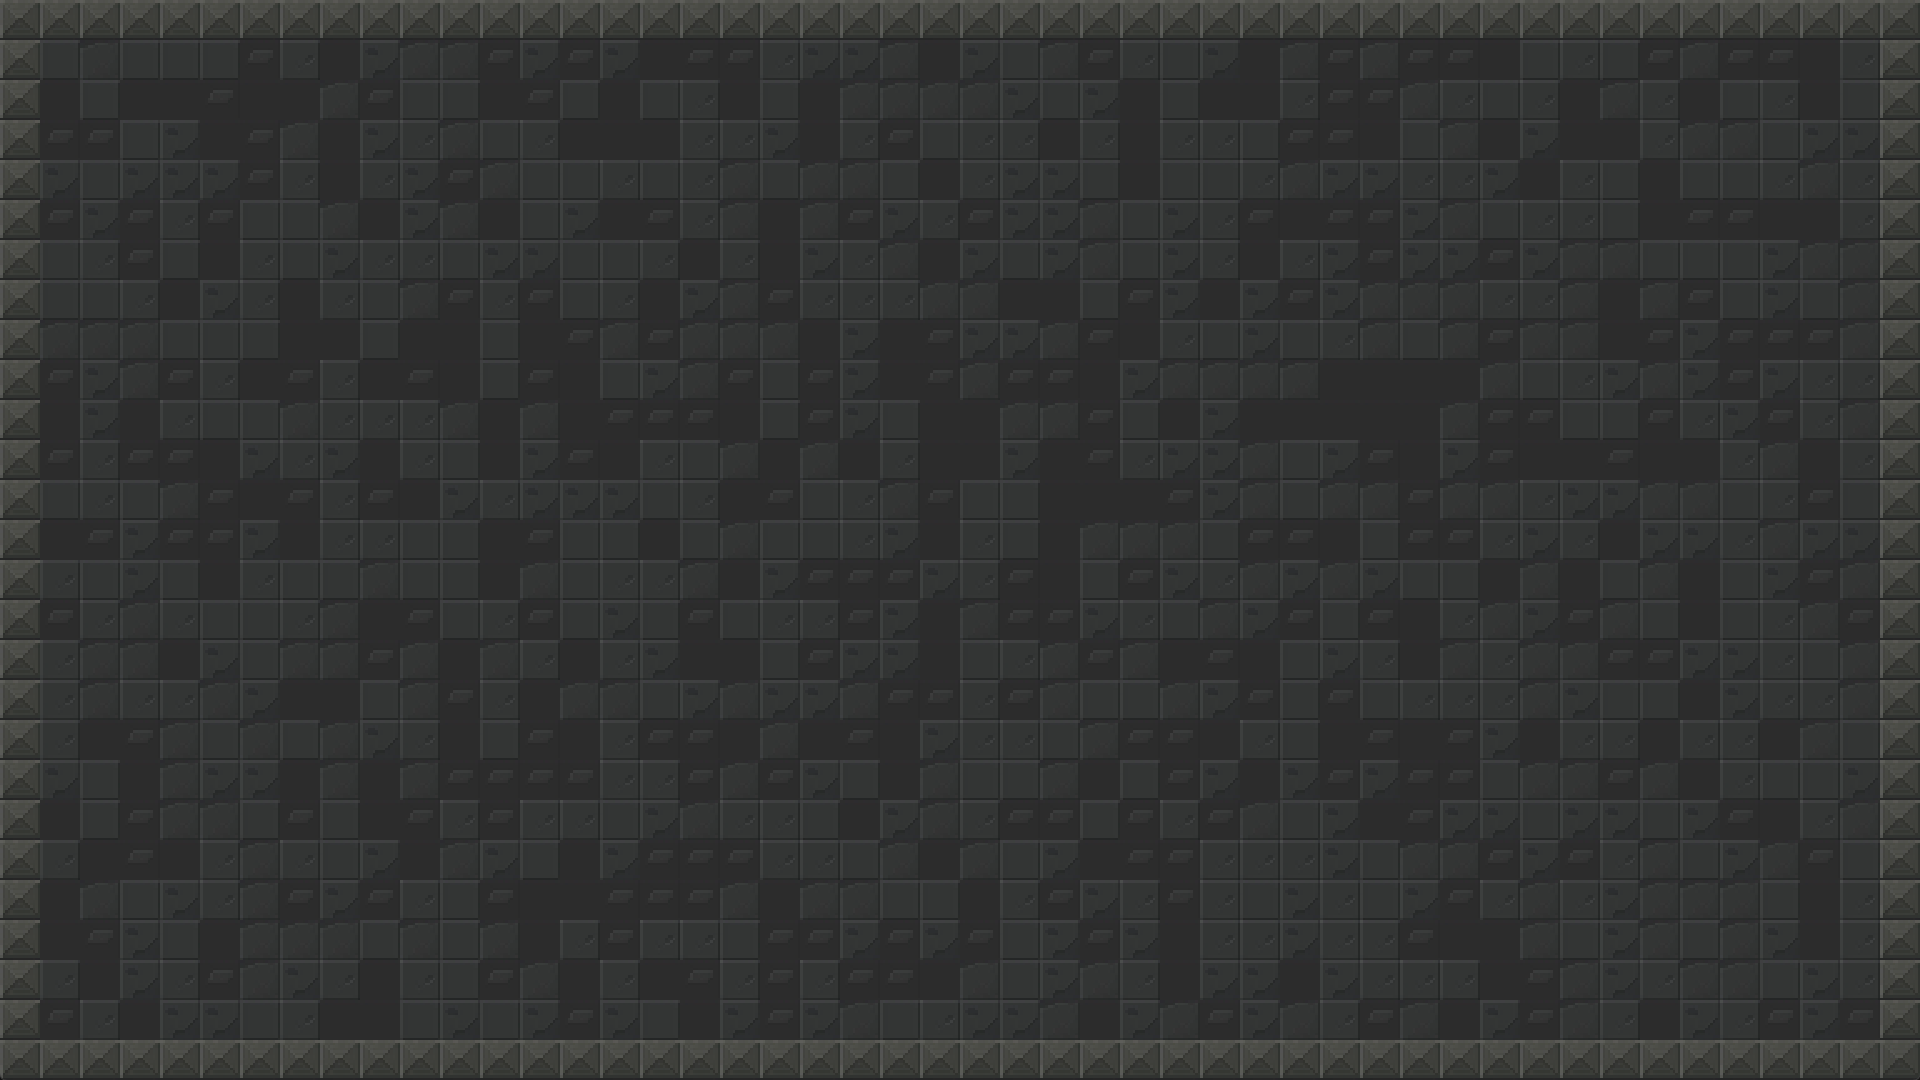
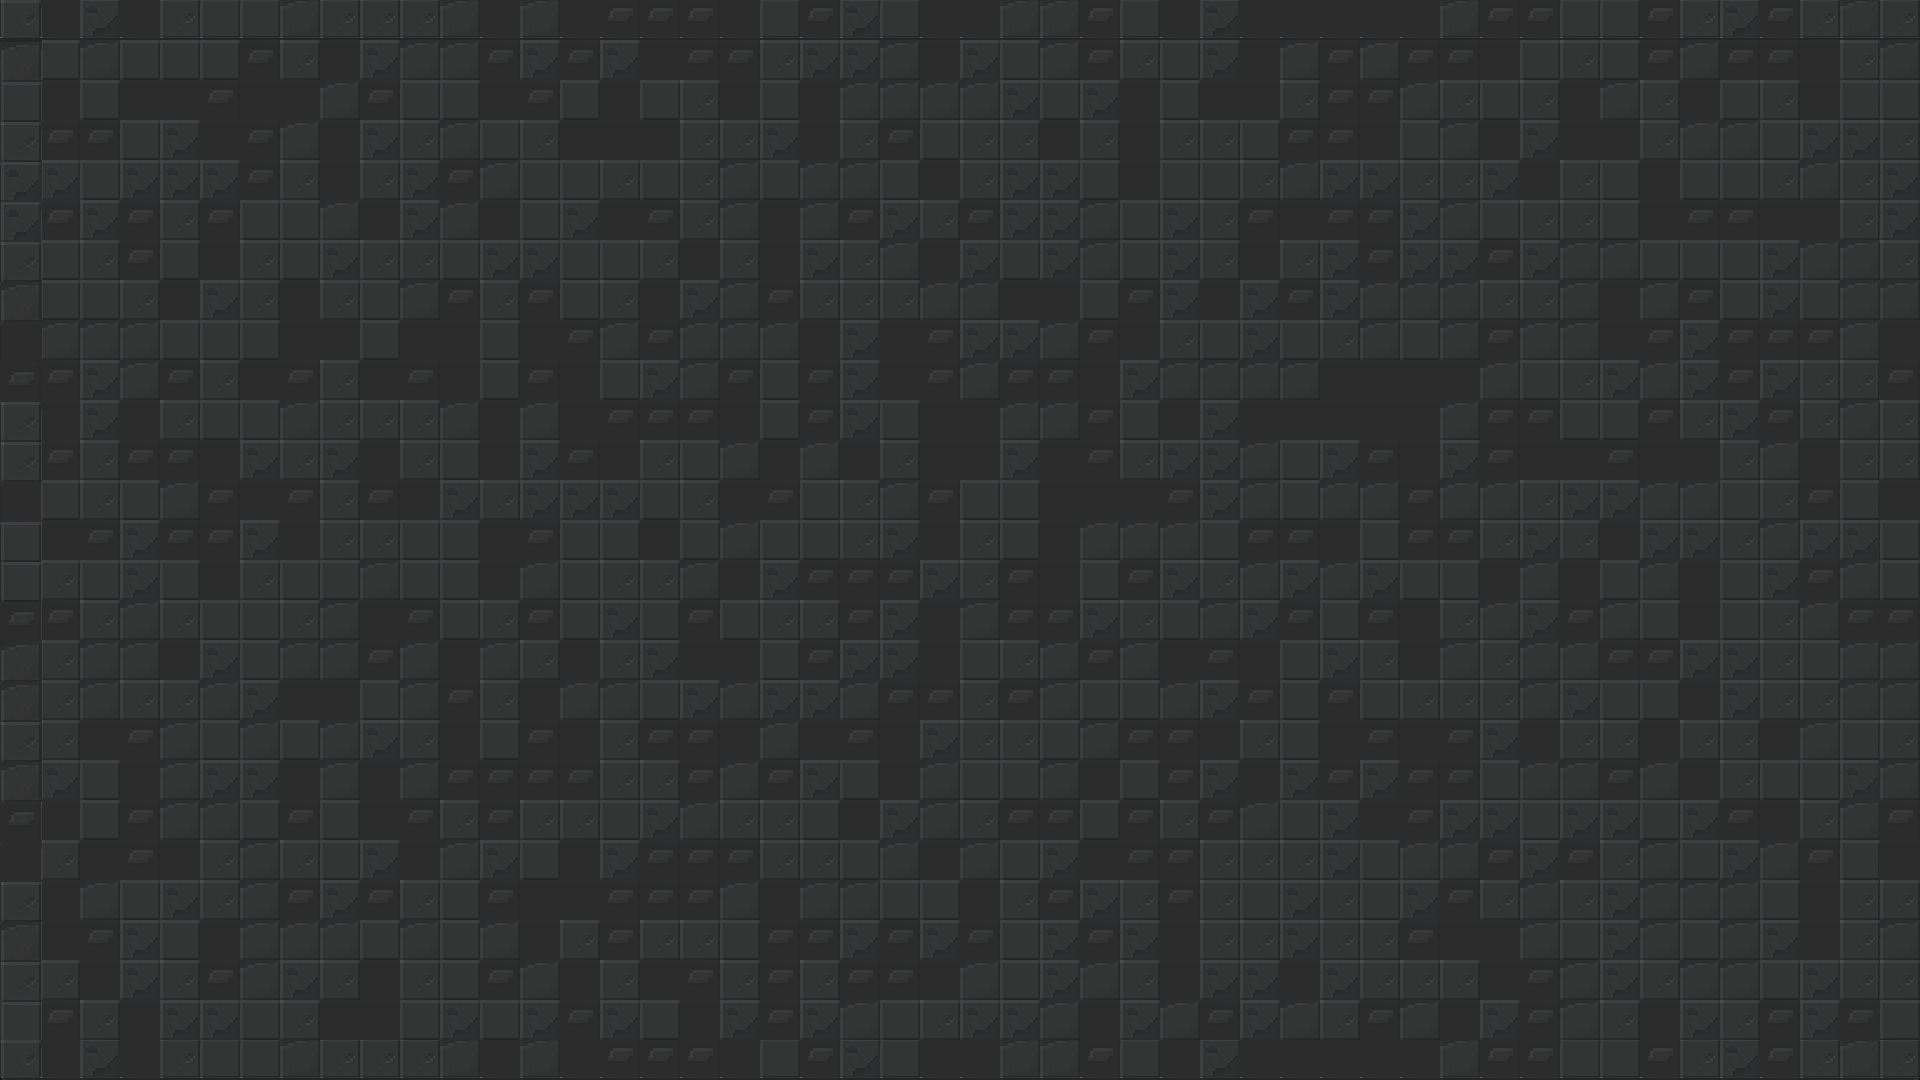
add_npc

diff --git a/GameBeta/Settings.py b/GameBeta/Settings.py
@@ -24,7 +24,13 @@ class SceneSettings:
     bossHeight=1080
 
     cityWallCoodX=480
-    cityWallCoodY=40
+    cityWallCoodY=0
+
+    cityObstacleDoorCoodX=-200
+    cityObstacleDoorCoodY=800
+
+    cityObstacleBoardCoodX=800
+    cityObstacleBoardCoodY=100
     
     wildCameraX=640
     wildCameraY=360
@@ -46,8 +52,10 @@ class PlayerSettings:
     mazeStartY= 23
     wildCoodx= 1120
     wildCoody= 560
-    cityCoodx= 640
-    cityCoody= 360
+    cityCoodx= 620
+    cityCoody= 80
+    bossCoodx= 640
+    bossCoody= 360
     collideCd= 30
 
 class NpcSettings:
@@ -57,7 +65,7 @@ class NpcSettings:
     talkCD = 30
     selectCD = 4
     shopCD = 15
-    monsterNum = 10
+    monsterNum = 7
     carolineCoodX=680
     carolineCoodY=280
     carolineDialog=[["喂，犯人，","休息得够久了吧？","快去干活!"]]
@@ -69,7 +77,40 @@ class NpcSettings:
     igorDialog=[["呵呵，看起来你的“冤申”进行的很成功呢。"],["如果你从怪物身上的得到了金币,","可以来我这里换取力量。"]]
     igorShop={"Attack +1": "Coin -15", "Defence +1": "Coin -15",
             "HP +1": "Coin -15", "Coin +50": "HP -5", "Exit": ""}
+    
+    chairCoodX=520
+    chairCoodY=40
+    chairDialog=[["（这是一只板凳）"],["(你坐了上去)"],["(你站了起来)"]]
 
+    elfCoodX=1000
+    elfCoodY=240
+    elfDialog=[["请看这块告示板，","那三只怪物都很危险"],["凤凰会喷吐火球，","而急冻鸟会召唤冰锥，"],["请多加小心。"]]
+
+    sisterCoodX=100
+    sisterCoodY=120
+    sisterDialog=[["如果受伤了的话，可以来我这里治疗哦。"]]
+
+    soldierOneCoodX=1300
+    soldierOneCoodY=900
+    soldierOneDialog=[["好想摸鱼，不想上班~"],["嗯？你在找我?","可你为什么要找我这个连专属立绘","都没有的小卡拉米呢?"]]
+
+    soldierTwoCoodX=1400
+    soldierTwoCoodY=900
+    soldierTwoDialog=[["说起来，你的画风和我们不太一样呢。"]]
+
+    diaryCoodX=720
+    diaryCoodY=40
+    diaryDialog=[["(这是一本日记，记录了你所扮演的角色","“周可儿”————一名铁科学生的故事)"],
+                 ["2024年1月24日","今天早上，我终于结束了我的最后一门期末考试。"],
+                 ["终于可以享受我的假期了！"],
+                 ["————我本来是这么认为的","可当我刚踏出考场的一瞬间,","我听到身边有同学好像在喊“冤申，乞动！”"],
+                 ["然后我感受到了一阵强烈的眩晕，","等我醒来的时候，我身处一座监狱之中。"],
+                 ["虽然不知道我为什么会来到这里，","但我想如果是因为同学的那句话，","那么我再喊一遍就有可能回去。"],
+                 ["在我喊出了:“冤申，乞动！”之后,","这座监狱典狱长伊格尔注意到了我，","认为我想通过行动来洗刷冤情，","于是把一把长得像水枪的东西交给了我，"],
+                 ["在他的授意下，我扣动了扳机，","水枪中射出了真正的子弹。"],
+                 ["伊格尔与我做了一个交易，","只要我使用这把在我到来之前没人可以使用的","神器杀死三只凶恶的怪物，"],
+                 ["他就愿意为我主持一场仪式，","将我送回原本的世界。"],
+                 ["为了守护我本就不多的假期，我决定豁出去了。"]]
 class CdType(Enum):
     LONG=1
     SHORT=2
@@ -185,6 +226,7 @@ class StatusBarSettings:
 
     bossHpScaleCoodX=350
     bossHpScaleCoody=650
+
 class GamePath:
     bgm = [r".\assets\bgm\start_bgm.mp3",
            r".\assets\bgm\city.mp3",
@@ -223,7 +265,12 @@ class GamePath:
     carolineTalk = r".\assets\npc\Caroline_talk.png"
     justine = r".\assets\npc\Justine.png"
     justineTalk = r".\assets\npc\Justine_talk.png"
-
+    chair = r".\assets\npc\chair.png"
+    diary = r".\assets\npc\diary.png"
+    elf=r".\assets\npc\elf.png"
+    sister=r".\assets\npc\sister.png"
+    soldier=r".\assets\npc\soldier.png"
+    soldierTwo=r".\assets\npc\soldier2.png"
     igor = r".\assets\npc\Igor.png"
     igorTalk = r".\assets\npc\Igor_talk.png"
     player = [
@@ -287,6 +334,9 @@ class GamePath:
     ]
     cityBg = r".\assets\background\city_bg.png"
     cityWall = r".\assets\background\city_wall.png"
+
+    cityObstacleDoor=r".\assets\background\city_obstacle1.png"
+    cityObstacleBoard=r".\assets\background\city_obstacle2.png"
 
     grassWildBg= r".\assets\background\grass_wild.png"
     fireWildBg= r".\assets\background\fire_wild.png"

diff --git a/GameBeta/GameManager.py b/GameBeta/GameManager.py
@@ -83,7 +83,6 @@ class GameManager:
             if event.type==GameEvent.EVENT_SWITCH_CITY:#进入城市
                 self.update_bgmplayer(SceneType.CITY)
                 self.bgmPlayer.play()
-                self.player.reset_hp()
                 self.state=GameState.GAME_PLAY_CITY
                 self.flush_scene(SceneType.CITY) 
                 if self.killedBossNum==3:
@@ -128,6 +127,8 @@ class GameManager:
             if event.type==GameEvent.EVENT_END_DIALOG:#结束对话
                 self.player.talking=False
                 self.dialogBox.npc.talking=False
+                if self.dialogBox.npc.name=="治疗师":
+                    self.player.reset_hp()
 
             if event.type==GameEvent.EVENT_SHOP:#开始购物
                 self.player.shopping=True
@@ -174,7 +175,6 @@ class GameManager:
             pygame.event.post(pygame.event.Event(GameEvent.EVENT_SWITCH_CITY))
     #更新城市
     def update_city(self):
-        self.player.reset_hp()
         self.update_player()#更新主人公状态
         self.update_attack()#更新子弹状态
         self.update_npcs()#更新NPC状态
@@ -332,6 +332,7 @@ class GameManager:
                     self.player.attr_update(addHp=self.player.defence
                                             -self.player.collide.collidingObject["monster"].attack)
                     if self.player.hp<=0:
+                        self.player.hp=1
                         pygame.event.post(pygame.event.Event(GameEvent.EVENT_GAME_OVER))
                     self.player.reset_collide_cd()
             if self.player.collide.collidingWith["boss"]:
@@ -339,6 +340,7 @@ class GameManager:
                     self.player.attr_update(addHp=self.player.defence
                                             -self.player.collide.collidingObject["boss"].attack)
                     if self.player.hp<=0:
+                        self.player.hp=1
                         pygame.event.post(pygame.event.Event(GameEvent.EVENT_GAME_OVER))
                     self.player.reset_collide_cd()
         #更新子弹碰撞

diff --git a/GameBeta/Scene.py b/GameBeta/Scene.py
@@ -136,6 +136,21 @@ class CityScene(Scene):
             self.portals.add(Portal(GamePath.portalFire,480,600,SceneType.WILD_FIRE))
         
         self.obstacles =Maps.gen_city_obstacle()
+
+        self.npcs.add(DialogNPC(GamePath.chair,GamePath.chair,NpcSettings.chairCoodX,
+                                NpcSettings.chairCoodY,"凳子",NpcSettings.chairDialog))
+        
+        self.npcs.add(DialogNPC(GamePath.diary,GamePath.diary,NpcSettings.diaryCoodX,
+                                NpcSettings.diaryCoodY,"日记",NpcSettings.diaryDialog))
+        self.npcs.add(DialogNPC(GamePath.elf,GamePath.elf,NpcSettings.elfCoodX,
+                                NpcSettings.elfCoodY,"精灵游侠",NpcSettings.elfDialog))
+        self.npcs.add(DialogNPC(GamePath.sister,GamePath.sister,NpcSettings.sisterCoodX,
+                                NpcSettings.sisterCoodY,"治疗师",NpcSettings.sisterDialog))
+        
+        self.npcs.add(DialogNPC(GamePath.soldier,GamePath.soldier,NpcSettings.soldierOneCoodX,
+                                NpcSettings.soldierOneCoodY,"狱卒甲",NpcSettings.soldierOneDialog))
+        self.npcs.add(DialogNPC(GamePath.soldierTwo,GamePath.soldier,NpcSettings.soldierTwoCoodX,
+                                NpcSettings.soldierTwoCoodY,"狱卒乙",NpcSettings.soldierTwoDialog))
         
         self.npcs.add(DialogNPC(GamePath.caroline,GamePath.carolineTalk,NpcSettings.carolineCoodX,
                                 NpcSettings.carolineCoodY,"卡萝莉娜",NpcSettings.carolineDialog))

diff --git a/GameBeta/Maps.py b/GameBeta/Maps.py
@@ -37,9 +37,13 @@ def gen_boss_map():
     return mapObj
 
 def gen_city_obstacle():
-    image = pygame.image.load(GamePath.cityWall)
     obstacles = pygame.sprite.Group()
-    obstacles.add(Obsatacle(image,SceneSettings.cityWallCoodX,SceneSettings.cityWallCoodY))#480,40
+    obstacles.add(Obsatacle(pygame.image.load(GamePath.cityWall),
+                            SceneSettings.cityWallCoodX,SceneSettings.cityWallCoodY))#480,40
+    obstacles.add(Obsatacle(pygame.image.load(GamePath.cityObstacleDoor),
+                            SceneSettings.cityObstacleDoorCoodX,SceneSettings.cityObstacleDoorCoodY))
+    obstacles.add(Obsatacle(pygame.image.load(GamePath.cityObstacleBoard),
+                            SceneSettings.cityObstacleBoardCoodX,SceneSettings.cityObstacleBoardCoodY))
     return obstacles
 
 def gen_wild_obstacle(imagePath,cameraX,cameraY):#生成障碍物

diff --git a/GameBeta/Player.py b/GameBeta/Player.py
@@ -68,7 +68,7 @@ class Player(pygame.sprite.Sprite, Collidable):
         if state==GameState.GAME_PLAY_WILD_GRASS or state==GameState.GAME_PLAY_WILD_WATER or state==GameState.GAME_PLAY_WILD_FIRE:
             self.rect.topleft=(PlayerSettings.wildCoodx,PlayerSettings.wildCoody)
         if state==GameState.GAME_PLAY_BOSS_GRASS or state==GameState.GAME_PLAY_BOSS_WATER or state==GameState.GAME_PLAY_BOSS_FIRE:
-            self.rect.topleft=(PlayerSettings.cityCoodx,PlayerSettings.cityCoody)
+            self.rect.topleft=(PlayerSettings.bossCoodx,PlayerSettings.bossCoody)
     def update(self,time):
         #如果正在对话则则不尝试更新
         self.status.update(self.maxHp,self.hp,self.attack,self.defence,self.money)
